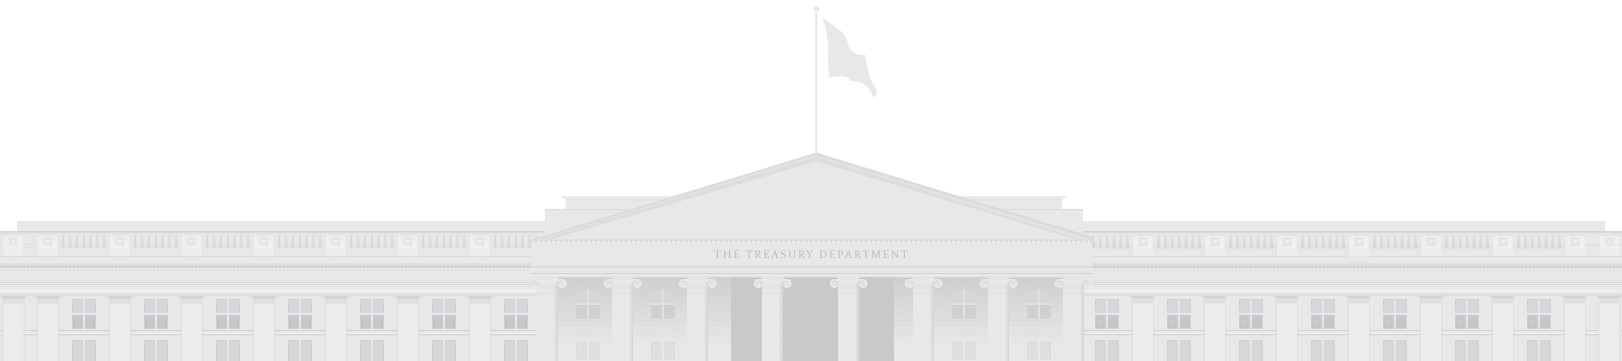
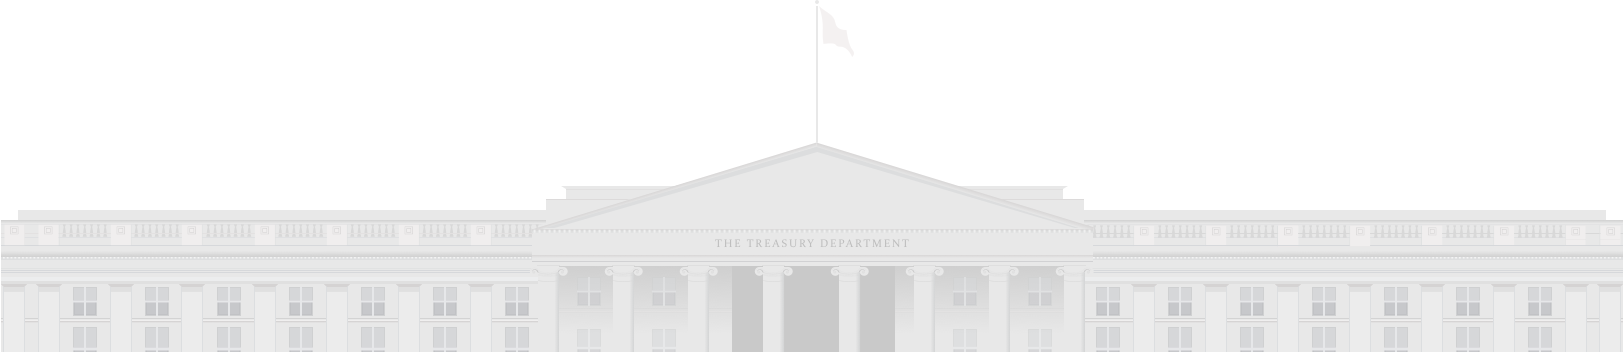
Updated the tooltips so that they are consistent across the site. Added a slight gradient behind the treasury building graphic on the homepage and uploaded a new version of the graphic as well.

diff --git a/src/_scss/components/visualizations/tooltip/_arrow.scss b/src/_scss/components/visualizations/tooltip/_arrow.scss
@@ -2,72 +2,72 @@
     width: 0;
     height: 0;
     position: absolute;
-    top: 12px;
-    left: -9px;
-
+    top: rem(12);
+    left: rem(-9);
     &:after {
         content: "";
         position: absolute;
-        width: 16px;
-        height: 16px;
-        background: $color-title-background;
+        width: rem(16);
+        height: rem(16);
+        background: #f0f0f0;
         border-bottom: 1px solid $color-tooltip-border;
         border-left: 1px solid $color-tooltip-border;
         transform: rotate(45deg);
-
         pointer-events: none;
     }
-
-    &.right {
+    &.right{
         left: auto;
-        right: 7px;
-
+        right: rem(7);
         &:after {
             transform: rotate(225deg);
         }
     }
-
+    &.top,
+    &.top-left,
+    &.top-right {
+        &:after {
+            background: #f0f0f0;
+        }
+    }
     &.top {
         left: calc(50% - 8px);
-        top: -9px;
-
+        top: rem(-9);
         &:after {
             transform: rotate(135deg);
         }
     }
-
     &.top-left {
-        left: -9px;
-        top: 9px;
+        left: rem(-9);
+        top: rem(9);
         z-index: -1;
     }
-
     &.top-right {
-        right: 7px;
+        right: rem(7);
         left: auto;
-        top: 9px;
-
+        top: rem(9);
         &:after {
             transform: rotate(225deg);
         }
     }
-
+    &.bottom-left,
+    &.bottom-right {
+        &:after {
+            background: $color-white;
+        }
+    }
     &.bottom-left {
-        left: -9px;
+        left: rem(-9);
         top: calc(100% - 32px);
         z-index: -1;
-
         &:after {
             transform: rotate(45deg);
         }
     }
-
     &.bottom-right {
-        right: 7px;
+        right: rem(8);
         left: auto;
         top: calc(100% - 32px);
         z-index: -1;
-
         &:after {
             transform: rotate(225deg);
         }

diff --git a/src/_scss/components/visualizations/tooltip/_tooltip.scss b/src/_scss/components/visualizations/tooltip/_tooltip.scss
@@ -1,4 +1,5 @@
 .tooltip {
+    @import "mixins/setText";
     $color-title-background: #F0F0F0;
     $color-tooltip-border: #ADAFB4;
     max-width: 75%;
@@ -18,7 +19,7 @@
         color: $color-gray;
         font-size: $base-font-size;
         font-weight: $font-bold;
-        padding: rem(10) rem(20);
+        padding: $global-pad ($global-pad * 2);
         text-align: center;
         z-index: 9;
     }
@@ -26,7 +27,7 @@
         @include display(flex);
         @include flex-flow(row wrap);
         @include justify-content(space-between);
-        padding: rem(15);
+        padding: rem(15) ($global-pad * 2);
         &.center {
             width: 100%;
         }
@@ -56,20 +57,21 @@
     }
     .tooltip-value {
         border-bottom: 1px solid #D5D6D8;
-        font-size: rem(26);
+        font-size: rem(30);
         font-weight: $font-light;
-        line-height: rem(33);
-        padding: 0 rem(10) rem(5);
+        line-height: rem(30);
+        padding: 0 0 rem(10) 0;
     }
     .tooltip-description {
         font-size: $small-font-size;
         font-weight: $font-normal;
-        line-height: rem(20);
-        padding: rem(30) rem(10) rem(5) rem(10);
+        line-height: rem(23);
+        padding: rem(5) 0 0 0;
+        text-align: justify;
     }
     .tooltip-label {
         font-weight: $font-normal;
-        padding: rem(5) rem(10) rem(10) rem(10);
+        padding: rem(10) rem(0) rem(0) rem(0);
     }
     .tooltip-footer {
         background-color: #fff1d2;

diff --git a/src/_scss/pages/homepage/treemapSection.scss b/src/_scss/pages/homepage/treemapSection.scss
@@ -76,26 +76,14 @@
                         text-align: center;
                     }
                 }
-                .tooltip-title {
-                    background: none;
-                    font-size: rem(38);
-                    line-height: rem(47);
-                    font-weight: 300;
-                    justify-content: center;
-                    margin: rem(5) 0 0;
-                    padding-bottom: 0;
-                }
                 .tooltip-body {
-                    justify-content: center;
+                    text-align: justify;
                 }
                 .tooltip-value {
-                    font-size: rem(19);
-                    line-height: rem(19);
-                    font-weight: 600;
-                    padding: rem(15) 0 rem(15) 0;
-                    border-top: rem(1) solid #D6D7D9;
-                    border-bottom: rem(1) solid #D6D7D9;
-                    margin-top: 0;
+                    font-size: rem(30);
+                    line-height: rem(30);
+                    font-weight: $font-light;
+                    border-bottom: none;
                 }
                 .tooltip-pointer {
                     &:after {

diff --git a/src/_scss/pages/homepage/treeMapIntro.scss b/src/_scss/pages/homepage/treeMapIntro.scss
@@ -2,12 +2,12 @@
 @import './_treeMapIntroMQ';
 .treemap-intro-wrap {
     @include clearfix;
-    background: #ececec url(../../img/treasury_building_small.png) no-repeat center bottom;
+    background: url(../../img/treasury_building_small.png) no-repeat center bottom, linear-gradient(180deg, #ececec 0%, rgba(174,176,181,0.5) 100%);
     border-bottom: rem(1) solid #e1e1e1;
     padding: rem(80) 0 0;
     height: rem(450);
     @include media($tablet-screen) {
-        background: url(../../img/treasury_building.png) no-repeat center bottom;
+        background: url(../../img/treasury_building.png) no-repeat center bottom, linear-gradient(180deg, #ececec 0%, rgba(174,176,181,0.5) 100%);
     }
     & .treemap-intro-inner-wrap {
         margin: 0 auto;

diff --git a/src/js/components/homepage/visualizations/categoryMap/CategoryMapTooltip.jsx b/src/js/components/homepage/visualizations/categoryMap/CategoryMapTooltip.jsx
@@ -78,7 +78,7 @@ export default class CategoryMapTooltip extends React.Component {
                     <div className="tooltip-body">
                         <div className="tooltip-full">
                             <div className="tooltip-value">
-                                {MoneyFormatter.formatMoney(this.props.dollar)}
+                                {MoneyFormatter.formatTreemapValues(this.props.dollar)}
                             </div>
                             <div className="tooltip-description">
                                 {this.props.description}

diff --git a/src/_scss/pages/homepage/visualizations/_byCategoryVisualization.scss b/src/_scss/pages/homepage/visualizations/_byCategoryVisualization.scss
@@ -36,4 +36,18 @@
             }
         }
     }
+    .category,
+    .value {
+        text-shadow: rem(1) rem(0) rem(1) rgba( $color-black, .3);
+    }
+    .category {
+        font-size: $base-font-size;
+    }
+    .value {
+        font-size: $base-font-size + rem(4);
+        font-weight: $font-semibold;
+    }
+    .chosen {
+        text-shadow: none;
+    }
 }
